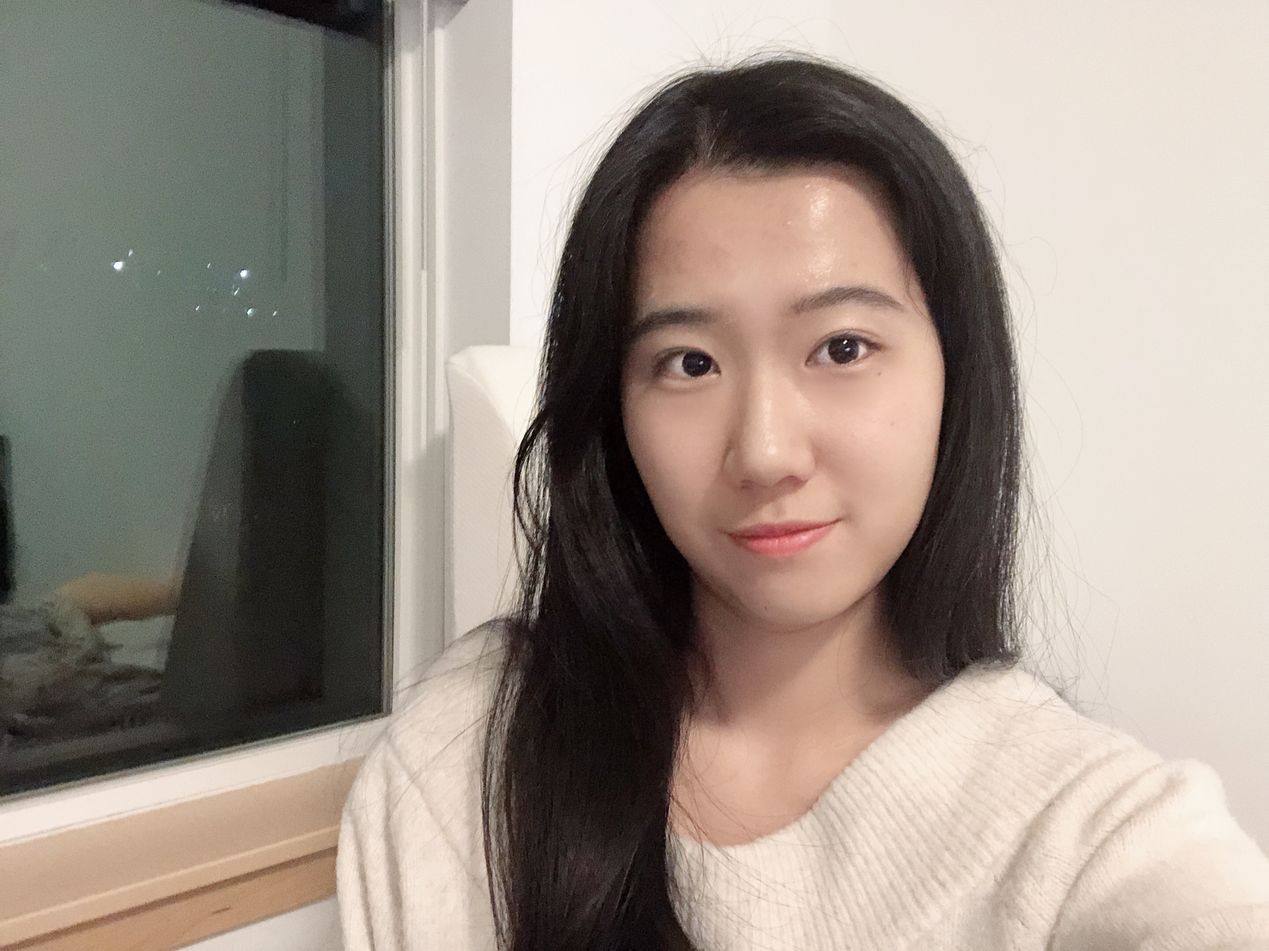
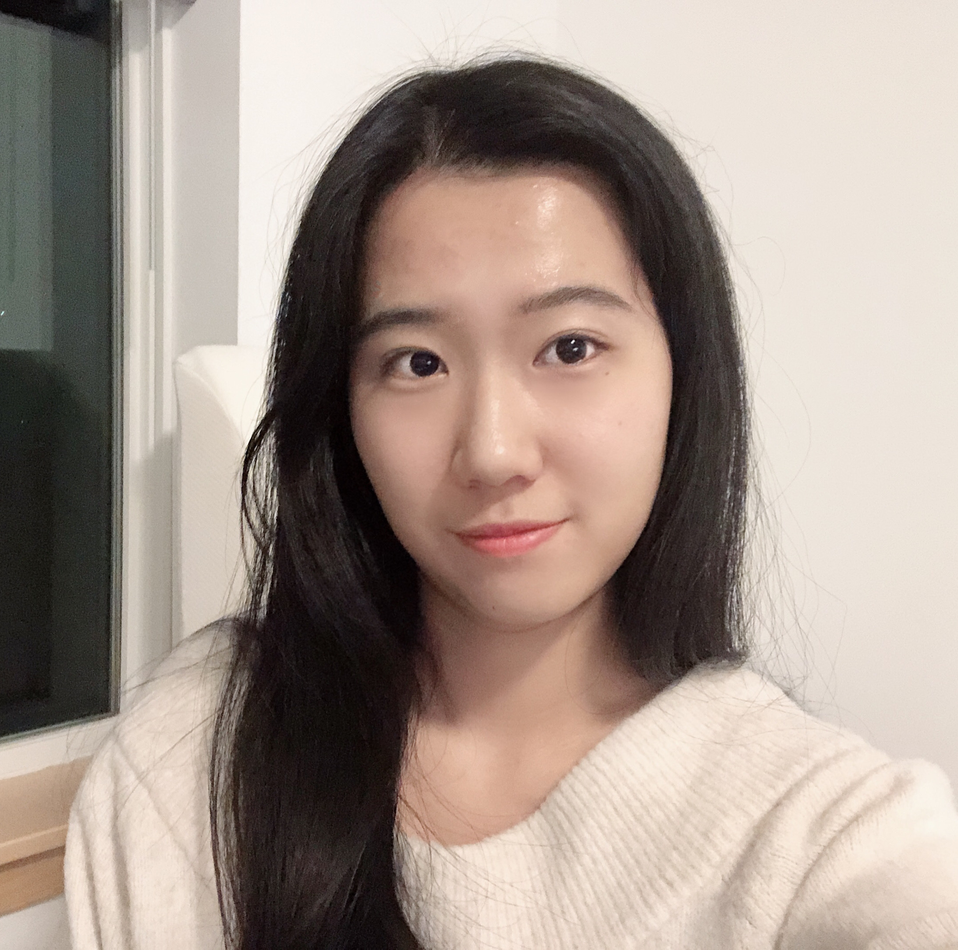
fix typo and resize image

diff --git a/people/_posts/2020-02-26-kelly-cheng.md b/people/_posts/2020-02-26-kelly-cheng.md
@@ -1,6 +1,6 @@
 ---
 layout: member
-title: "Keyll Cheng"
+title: "Kelly Cheng"
 position: Undergraduate Student
 field: Computer Science
 nickname: kelly-cheng
